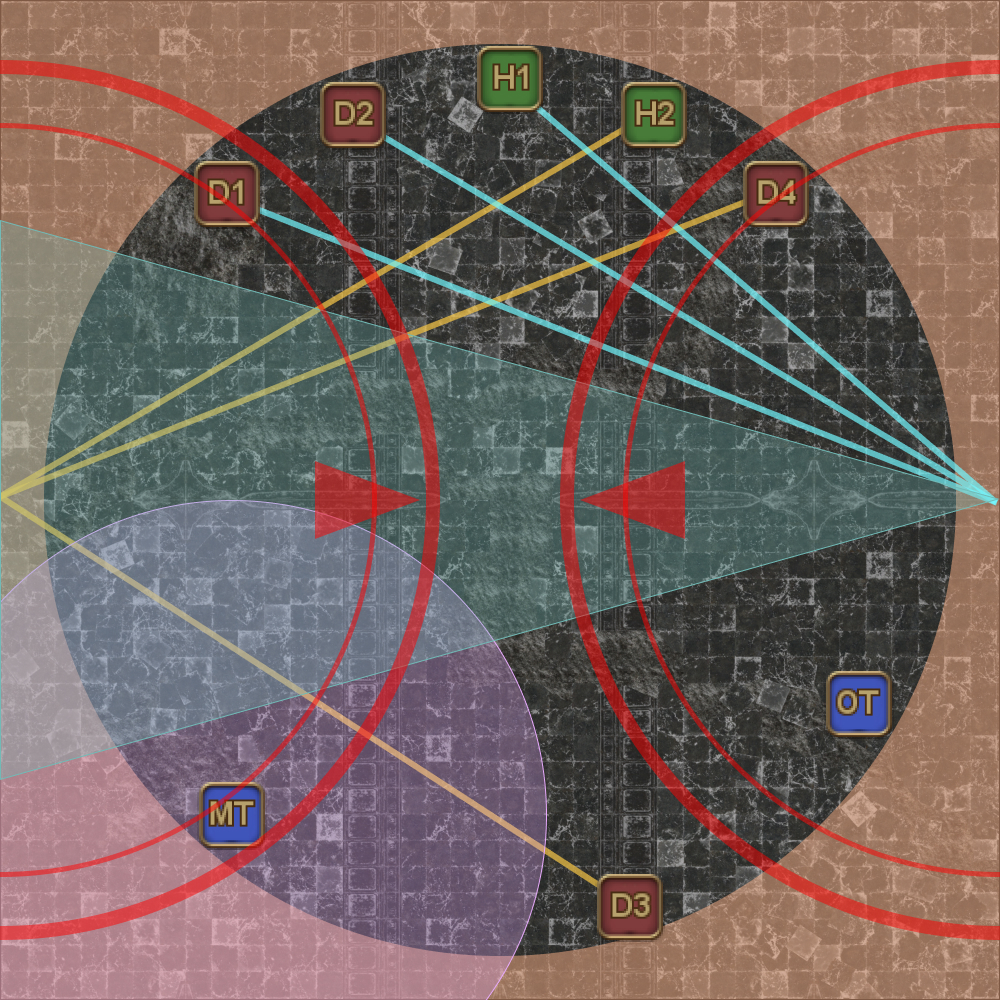
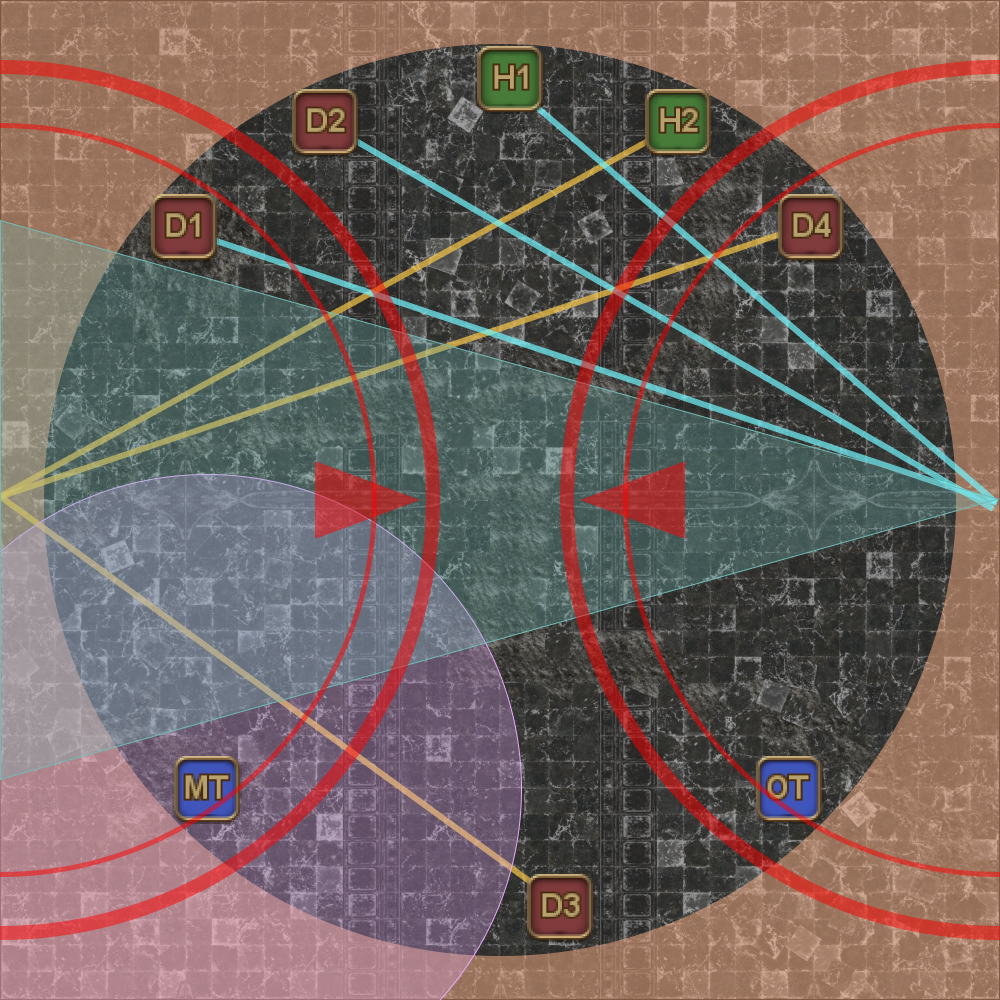
Add details to the 5-1 WB2 strat

diff --git a/ultimates/dsr/en/06_double_dragons.md b/ultimates/dsr/en/06_double_dragons.md
@@ -435,7 +435,7 @@ All tethers can be fully stretched, however, players will need to adjust their p
         <li><b>MT:</b> SW if you get the single-target tankbuster (by Nidhogg).</li>
         <li><b>ST:</b> SE if you get the single-target tankbuster (by Hraesvelgr).</li>
         <li><b>D3:</b> Go south, and <b>move towards a dragon whose mouth is glowing</b>.</li>
-        <li><b>All other non-tanks:</b> Spread out along the <b>north</b> edge.</li>
+        <li><b>All other players:</b> Spread out along the <b>north</b> edge.<ul><li>The north position should go to a <b>healer or caster</b> that is in the group with 3 tethers.</li></ul></li>
       </ul>
       <p><em>(In this example, Hraesvelgr's mouth is glowing).</em></p>
     </td>
